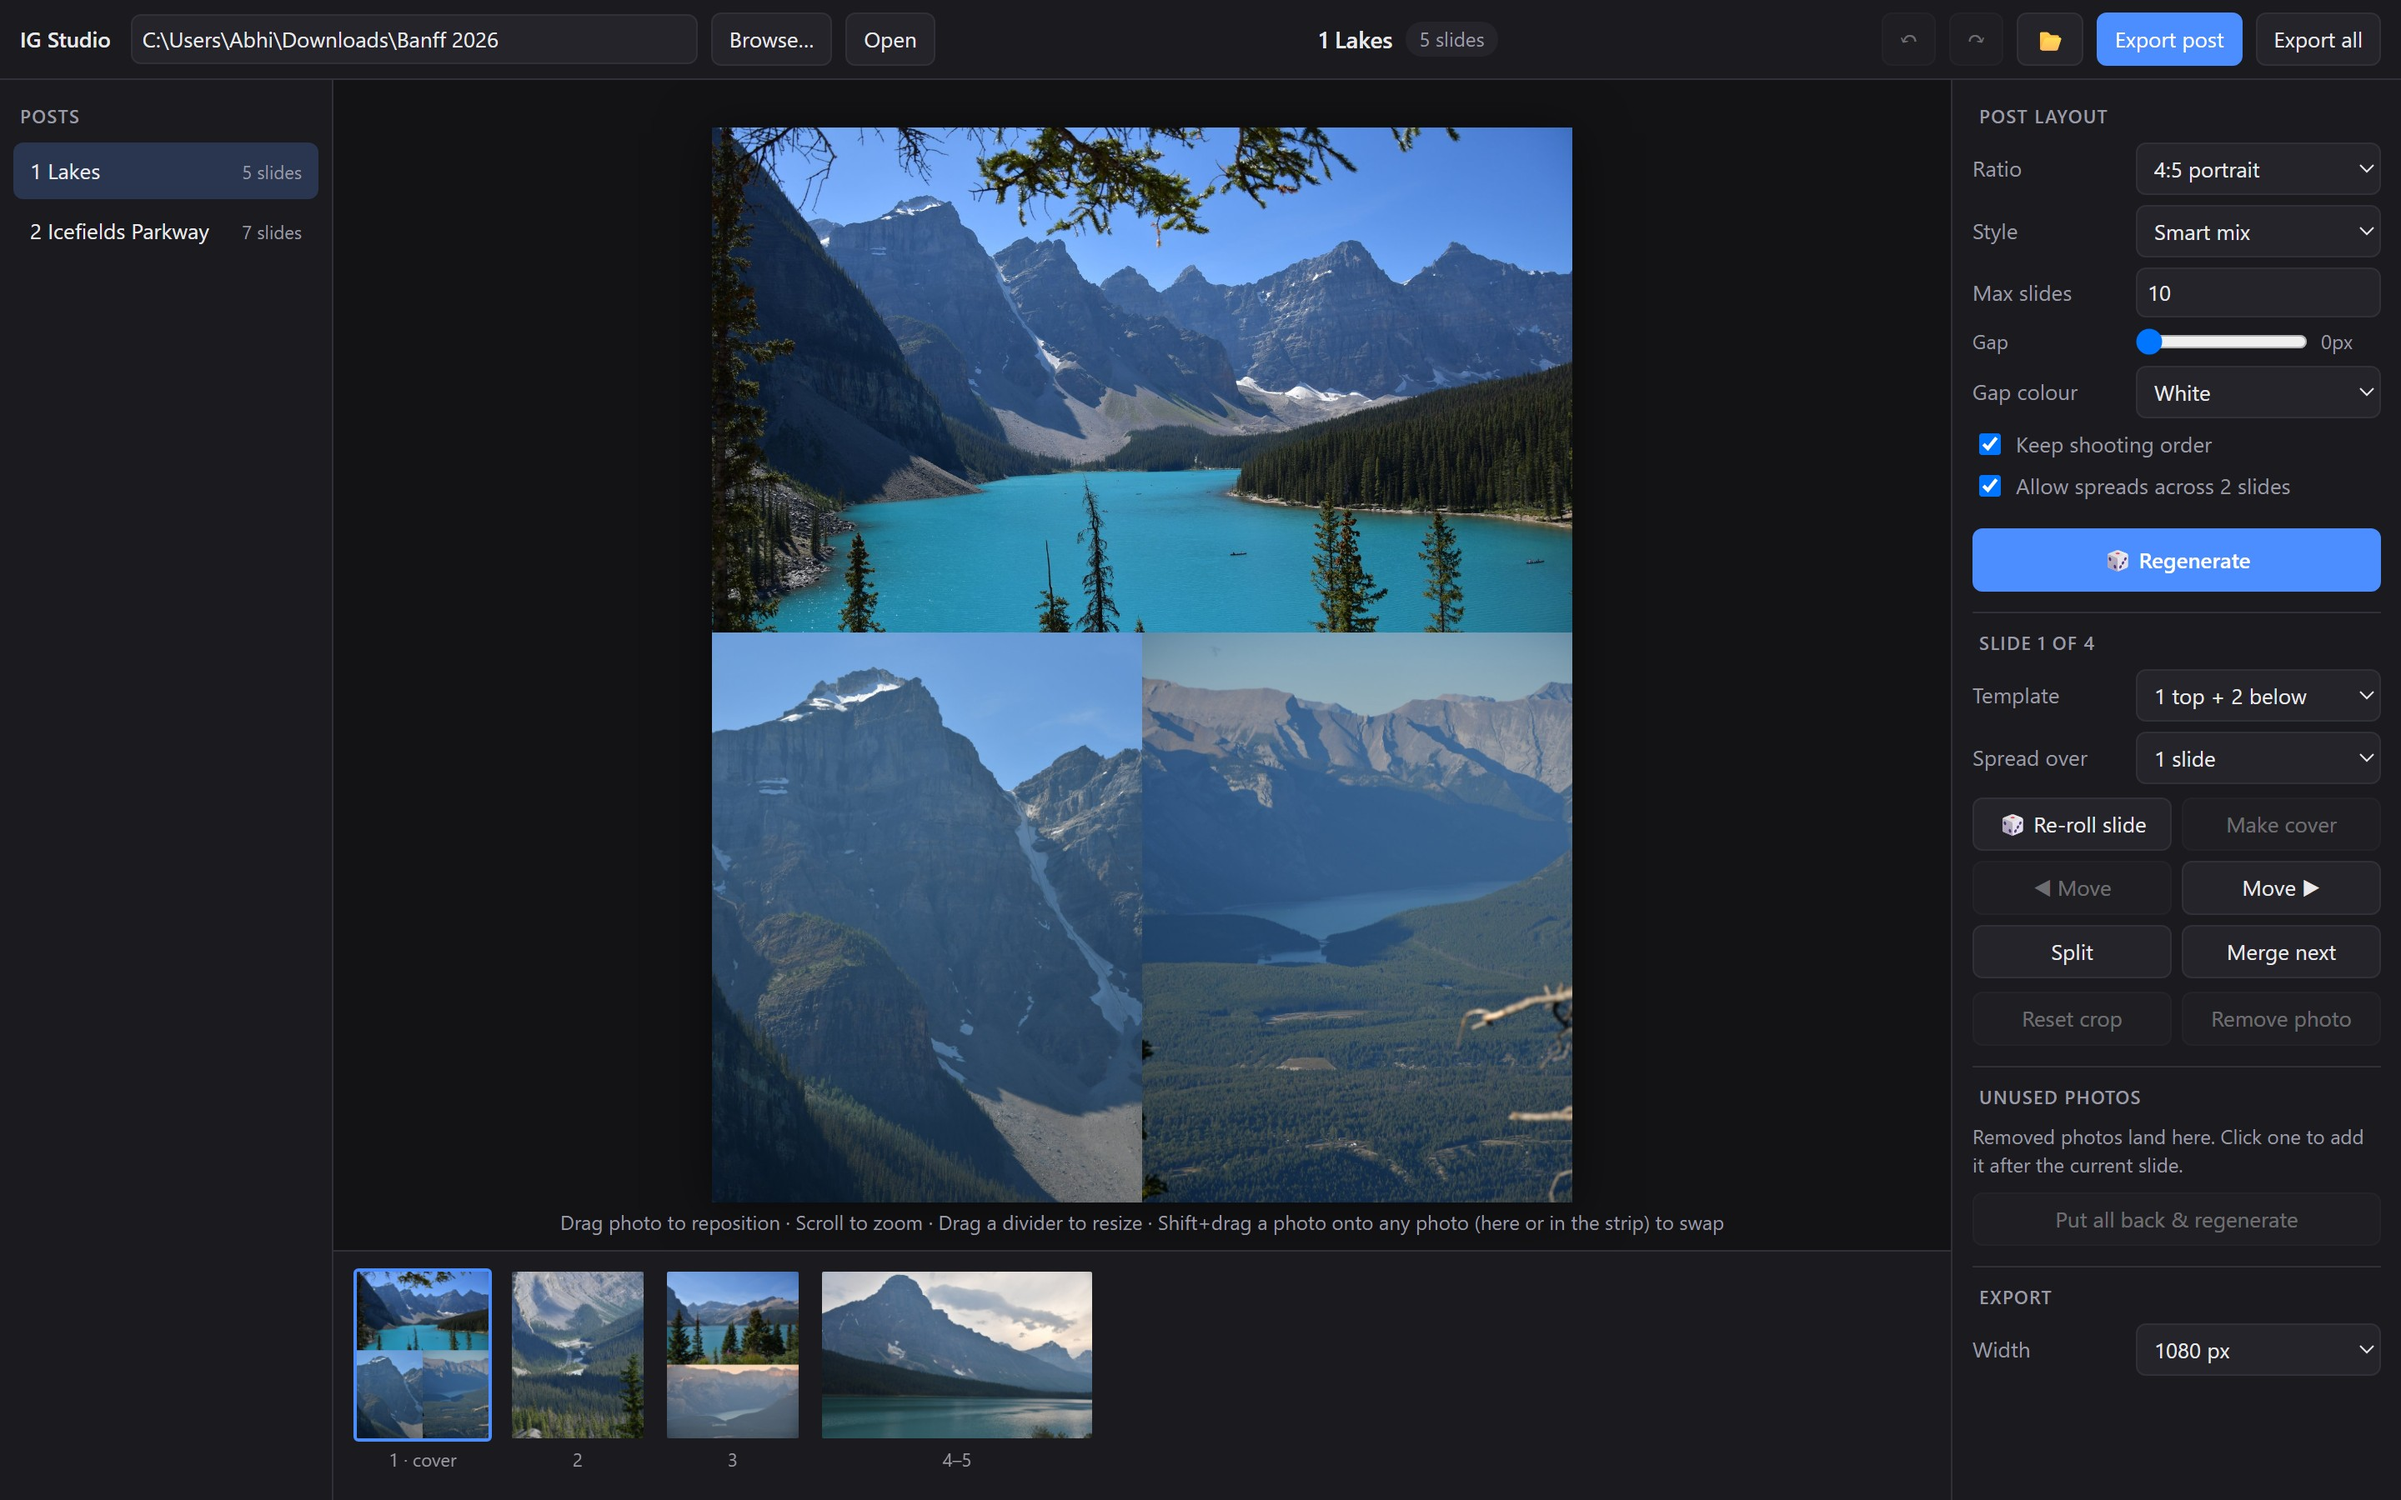
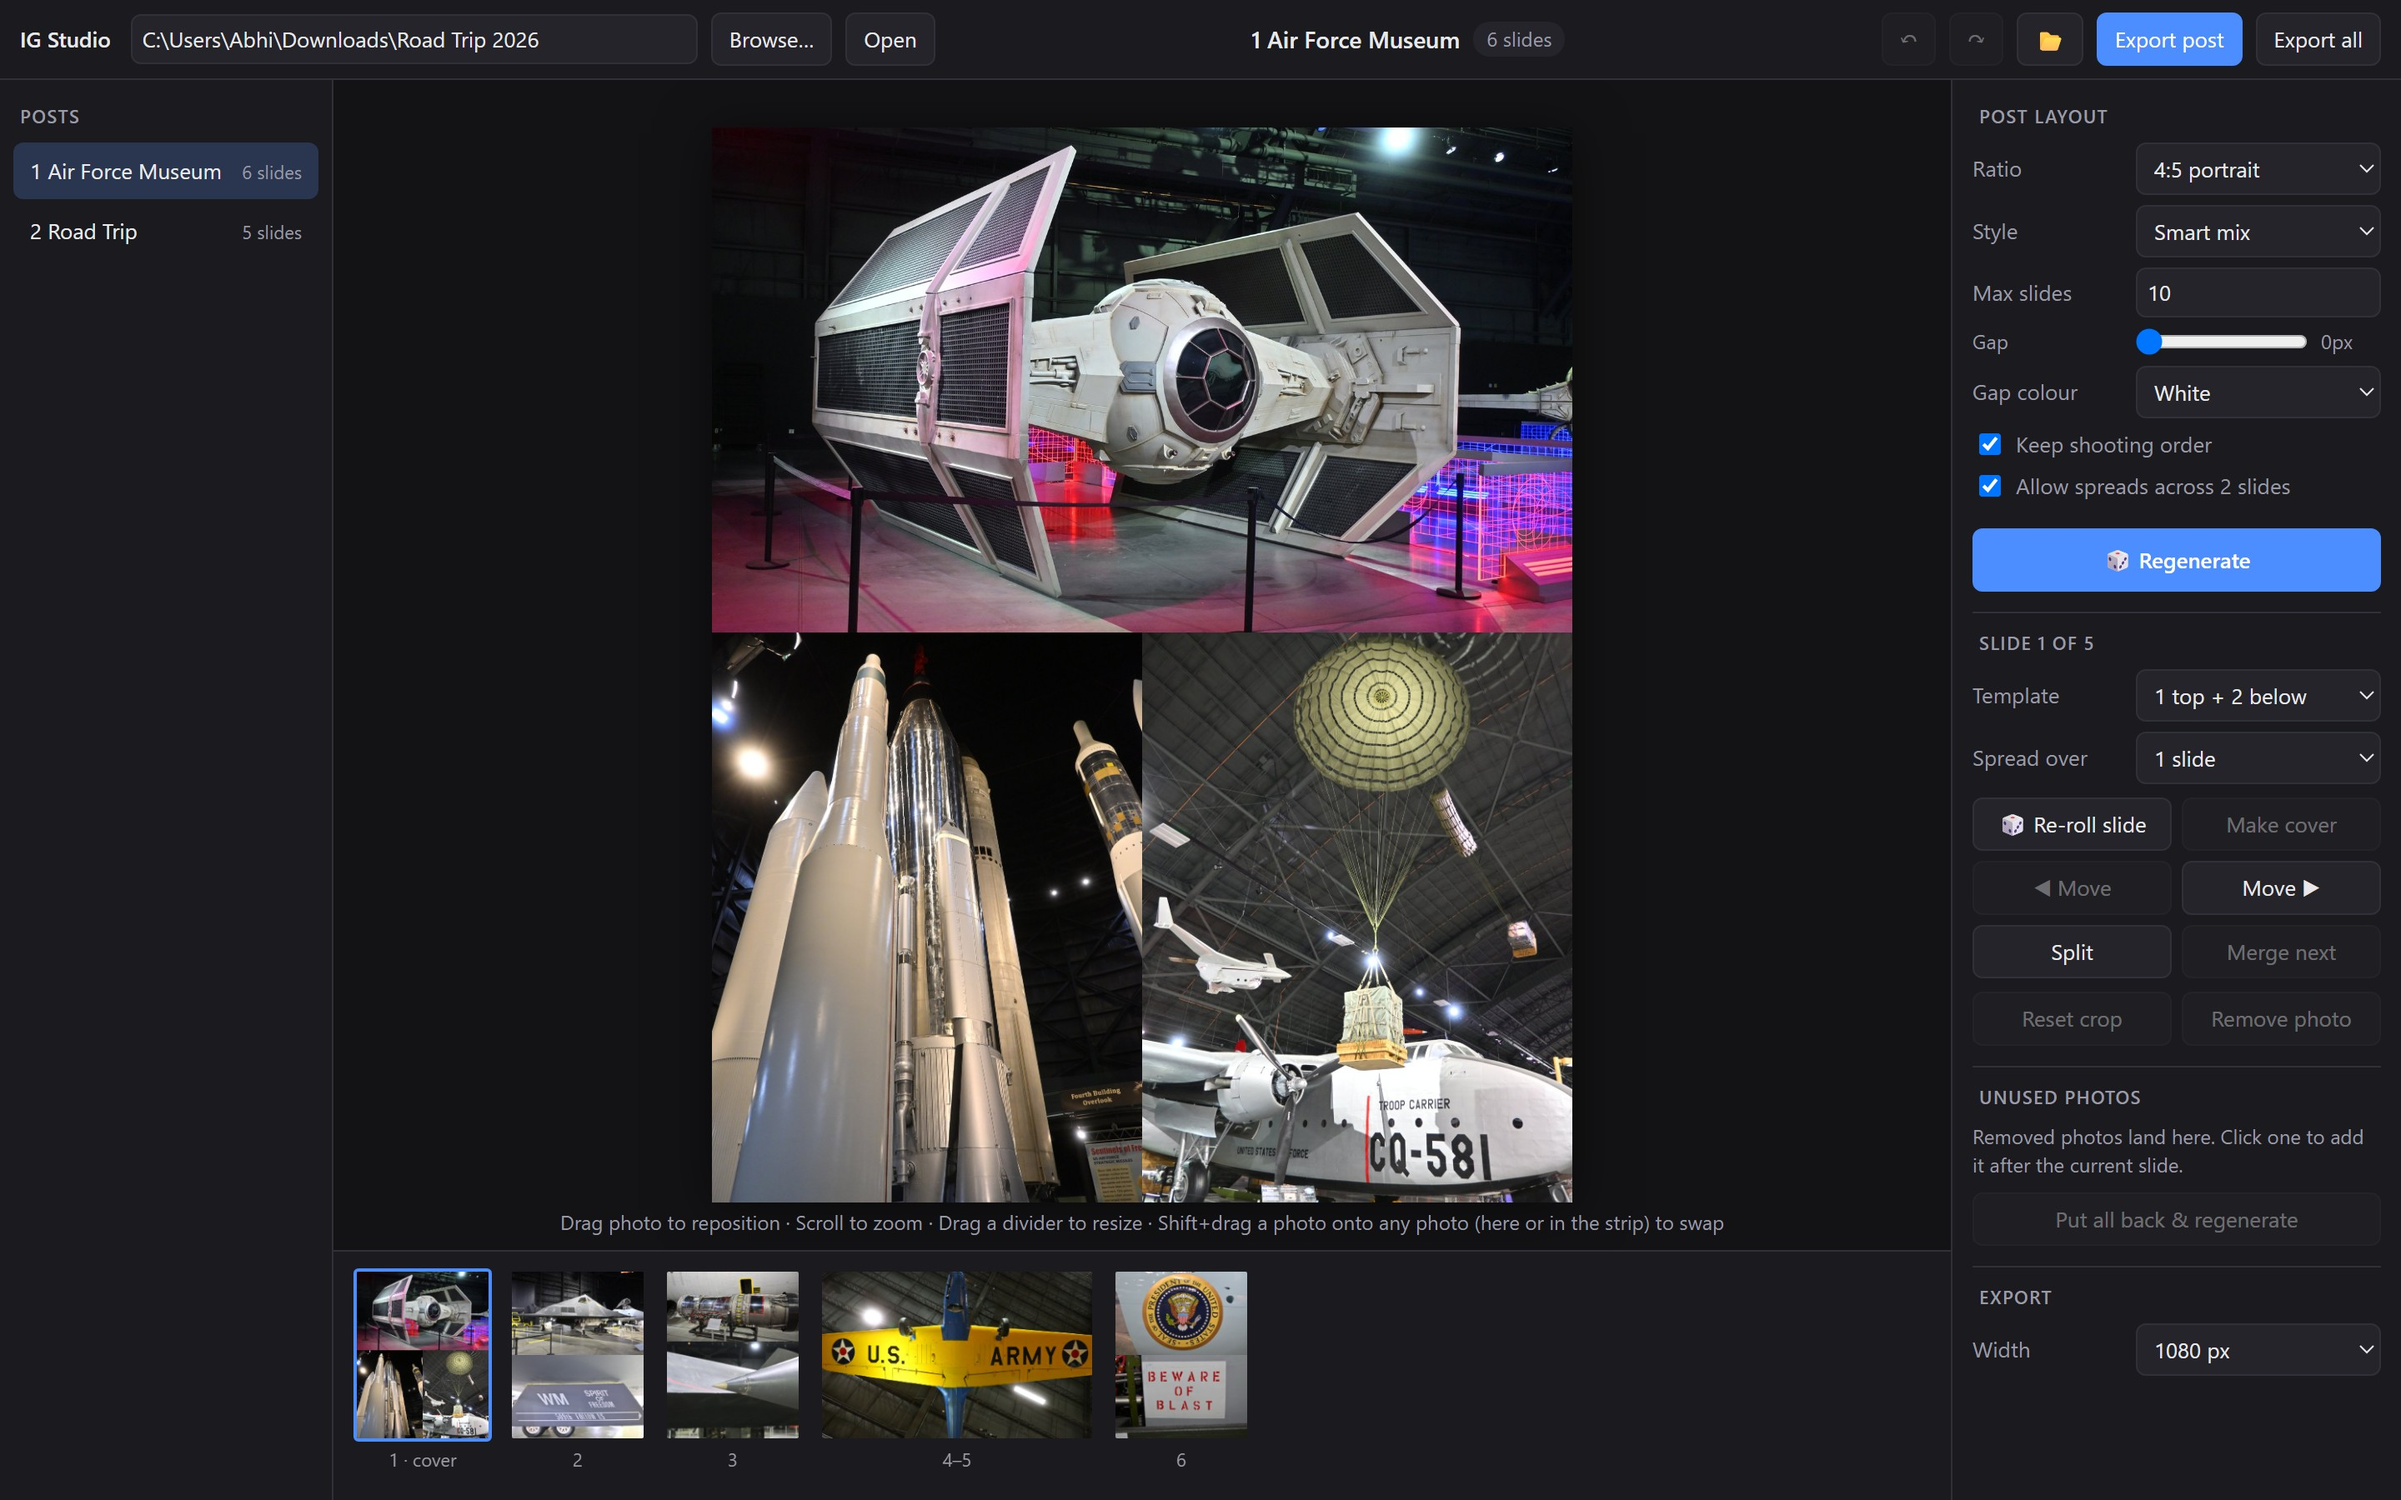
Use Z50 Air Force Museum and road trip photos in README screenshots
Swap the Banff images for people-free shots from the z50 usace folder.
Published images are re-rendered screenshots and exports with no camera
EXIF or GPS data.

diff --git a/README.md b/README.md
@@ -43,7 +43,7 @@ it, nudge the details, and export. Every post is ready to upload in a few minute
 
 ![The exported carousel: collage cover, single, resized stack, and a two-slide spread](docs/carousel.jpg)
 
-<sub>Screenshots: Banff and the Icefields Parkway, shot on a Nikon D7500.</sub>
+<sub>Screenshots: National Museum of the US Air Force and a road trip, shot on a Nikon Z50.</sub>
 
 ## Quick start: portable exe (nothing to install)
 
